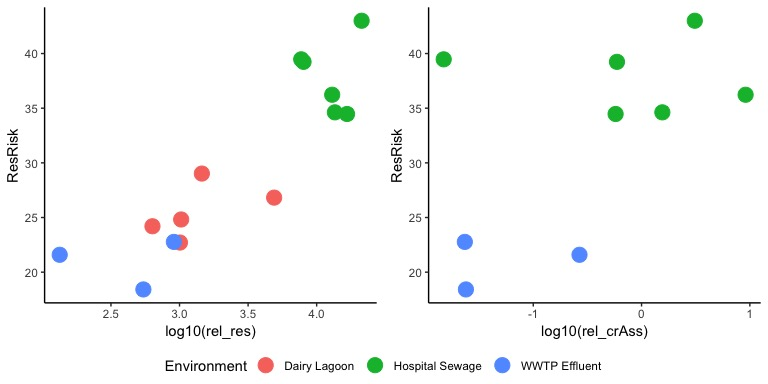
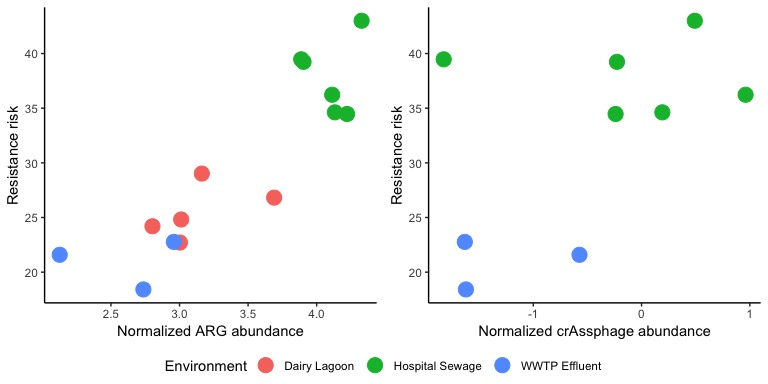
modified suppl fig 7

diff --git a/README.md b/README.md
@@ -724,9 +724,13 @@ grid.arrange(p1, p2, ncol=2)
 ### Supplementary Figure 7
 
 ``` r
-p1 <- ggplot(res_risk,aes(y=ResRisk,x=log10(rel_res),color=Environment)) + geom_point(size=5) + 
+p1 <- ggplot(res_risk,aes(y=ResRisk,x=log10(rel_res),color=Environment)) + 
+  geom_point(size=5) + 
+  labs(y = "Resistance risk", x="Normalized ARG abundance") +
   theme_classic() 
-p2 <- ggplot(res_risk,aes(y=ResRisk,x=log10(rel_crAss),color=Environment)) + geom_point(size=5) + 
+p2 <- ggplot(res_risk,aes(y=ResRisk,x=log10(rel_crAss),color=Environment)) + 
+  geom_point(size=5) + 
+  labs(y = "Resistance risk", x="Normalized crAssphage abundance") +
   theme_classic() 
 grid_arrange_shared_legend(p1,p2, ncol=2)
 ```
